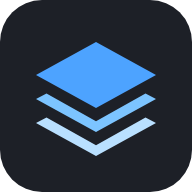
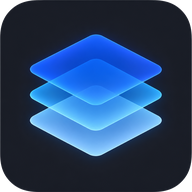
新增:插畫範例與新圖示

diff --git a/src/sample.ts b/src/sample.ts
@@ -2,66 +2,82 @@ import type { Layer, Psd } from 'ag-psd';
 import type { MessageKey } from './i18n/messages';
 import { context2d, createSurface, pixelsOf } from './model/surface';
 
-type Draw = (context: CanvasRenderingContext2D) => void;
+const sampleWidth = 1024;
+const sampleHeight = 768;
 
-const sampleWidth = 512;
-const sampleHeight = 512;
+interface Placement {
+  file: string;
+  name: MessageKey;
+  left: number;
+  top: number;
+}
 
-function pixelLayer(name: string, left: number, top: number, width: number, height: number, draw: Draw, extra: Partial<Layer> = {}): Layer {
+const placements: Record<'background' | 'easel' | 'character' | 'cat', Placement> = {
+  background: { file: 'background.webp', name: 'sample.background', left: 0, top: 0 },
+  easel: { file: 'easel.webp', name: 'sample.easel', left: 110, top: 330 },
+  character: { file: 'character.webp', name: 'sample.character', left: 380, top: 220 },
+  cat: { file: 'cat.webp', name: 'sample.cat', left: 700, top: 540 },
+};
+
+async function loadImage(file: string): Promise<HTMLImageElement> {
+  const image = new Image();
+  image.src = `${import.meta.env.BASE_URL}sample/${file}`;
+  await image.decode();
+  return image;
+}
+
+async function imageLayer(placement: Placement, name: (key: MessageKey) => string): Promise<Layer> {
+  const image = await loadImage(placement.file);
+  const surface = createSurface(image.naturalWidth, image.naturalHeight);
+  context2d(surface).drawImage(image, 0, 0);
+  return {
+    name: name(placement.name),
+    left: placement.left,
+    top: placement.top,
+    right: placement.left + surface.width,
+    bottom: placement.top + surface.height,
+    imageData: pixelsOf(surface),
+  };
+}
+
+function drawnLayer(name: string, left: number, top: number, width: number, height: number, draw: (context: CanvasRenderingContext2D) => void, extra: Partial<Layer>): Layer {
   const surface = createSurface(width, height);
-  const context = context2d(surface);
-  draw(context);
+  draw(context2d(surface));
   return { name, left, top, right: left + width, bottom: top + height, imageData: pixelsOf(surface), ...extra };
 }
 
-function ellipse(color: string, width: number, height: number): Draw {
-  return (context) => {
-    context.fillStyle = color;
+function shadows(context: CanvasRenderingContext2D) {
+  context.fillStyle = '#3d4a3a';
+  for (const [x, y, radiusX, radiusY] of [
+    [205, 40, 110, 22],
+    [430, 40, 120, 26],
+    [690, 40, 70, 16],
+  ]) {
     context.beginPath();
-    context.ellipse(width / 2, height / 2, width / 2, height / 2, 0, 0, Math.PI * 2);
+    context.ellipse(x, y, radiusX, radiusY, 0, 0, Math.PI * 2);
     context.fill();
-  };
+  }
 }
 
-function roundedRect(color: string, width: number, height: number, radius: number): Draw {
-  return (context) => {
-    context.fillStyle = color;
-    context.beginPath();
-    context.roundRect(0, 0, width, height, radius);
-    context.fill();
-  };
+function sketch(context: CanvasRenderingContext2D) {
+  context.strokeStyle = '#d0453a';
+  context.lineWidth = 3;
+  context.setLineDash([12, 8]);
+  context.strokeRect(6, 6, 348, 568);
 }
 
-export function samplePsd(name: (key: MessageKey) => string): Psd {
-  const background = pixelLayer(name('sample.background'), 0, 0, sampleWidth, sampleHeight, (context) => {
-    const gradient = context.createLinearGradient(0, 0, 0, sampleHeight);
-    gradient.addColorStop(0, '#dfe9f5');
-    gradient.addColorStop(1, '#f7efe3');
-    context.fillStyle = gradient;
-    context.fillRect(0, 0, sampleWidth, sampleHeight);
-  });
-  const shadow = pixelLayer(name('sample.shadow'), 156, 420, 200, 40, ellipse('#6b6f7a', 200, 40), { blendMode: 'multiply', opacity: 0.45 });
-  const body = pixelLayer(name('sample.body'), 196, 230, 120, 190, roundedRect('#3f7cc4', 120, 190, 36));
-  const armLeft = pixelLayer(name('sample.armLeft'), 150, 250, 44, 130, roundedRect('#f2c6a0', 44, 130, 22));
-  const armRight = pixelLayer(name('sample.armRight'), 318, 250, 44, 130, roundedRect('#f2c6a0', 44, 130, 22));
-  const head = pixelLayer(name('sample.head'), 186, 90, 140, 140, ellipse('#f2c6a0', 140, 140));
-  const sketch = pixelLayer(
-    name('sample.sketch'),
-    120,
-    60,
-    280,
-    400,
-    (context) => {
-      context.strokeStyle = '#d0453a';
-      context.lineWidth = 3;
-      context.strokeRect(10, 10, 260, 380);
-    },
-    { hidden: true },
-  );
-  const character: Layer = { name: name('sample.character'), opened: true, children: [armLeft, body, armRight, head] };
+export async function samplePsd(name: (key: MessageKey) => string): Promise<Psd> {
+  const [background, easel, character, cat] = await Promise.all([
+    imageLayer(placements.background, name),
+    imageLayer(placements.easel, name),
+    imageLayer(placements.character, name),
+    imageLayer(placements.cat, name),
+  ]);
+  const shadow = drawnLayer(name('sample.shadow'), 100, 680, 820, 80, shadows, { blendMode: 'multiply', opacity: 0.35 });
+  const guide = drawnLayer(name('sample.sketch'), 350, 180, 360, 580, sketch, { hidden: true });
   return {
     width: sampleWidth,
     height: sampleHeight,
-    children: [background, shadow, character, sketch],
+    children: [background, shadow, { name: name('sample.foreground'), opened: true, children: [easel, character, cat] }, guide],
   };
 }

diff --git a/src/ui/App.tsx b/src/ui/App.tsx
@@ -141,7 +141,11 @@ export function App() {
     if (editor.dirty && !(await ask(t('dialog.unsavedTitle'), t('dialog.unsavedBody'), t('dialog.continue')))) {
       return;
     }
-    loadDocument(documentFromPsd(samplePsd((key) => t(key)), t('sample.fileName')));
+    try {
+      loadDocument(documentFromPsd(await samplePsd((key) => t(key)), t('sample.fileName')));
+    } catch (error) {
+      setStatus({ tone: 'error', text: t('status.error', { message: error instanceof Error ? error.message : String(error) }) });
+    }
   }, [ask, editor.dirty, loadDocument, t]);
 
   const finalComposite = useCallback(() => (document ? compositor.render(document) : null), [compositor, document]);
@@ -382,7 +386,7 @@ export function App() {
     >
       <header className="toolbar">
         <div className="brand">
-          <img src="icon.svg" alt="" width={22} height={22} />
+          <img src="icon-192.png" alt="" width={22} height={22} />
           <span>layerdesk</span>
         </div>
         <div className="tool-group">
@@ -479,7 +483,7 @@ export function App() {
             </>
           ) : (
             <div className="empty-state">
-              <img src="icon.svg" alt="" width={72} height={72} />
+              <img src="icon-192.png" alt="" width={72} height={72} />
               <h1>layerdesk</h1>
               <p>{t('app.tagline')}</p>
               <div className="drop-target">

diff --git a/src/i18n/messages.ts b/src/i18n/messages.ts
@@ -183,13 +183,12 @@ const en = {
   'status.unsaved': 'Unsaved changes',
   'sample.fileName': 'sample.psd',
   'sample.background': 'background',
-  'sample.character': 'character',
-  'sample.body': 'body',
-  'sample.head': 'head',
-  'sample.armLeft': 'arm left',
-  'sample.armRight': 'arm right',
+  'sample.foreground': 'foreground',
+  'sample.easel': 'easel',
+  'sample.character': 'painter',
+  'sample.cat': 'cat',
   'sample.shadow': 'shadow',
-  'sample.sketch': 'sketch',
+  'sample.sketch': 'layout guide',
 };
 
 export type MessageKey = keyof typeof en;
@@ -379,13 +378,12 @@ const zhTW: Record<MessageKey, string> = {
   'status.unsaved': '尚未儲存',
   'sample.fileName': '範例.psd',
   'sample.background': '背景',
-  'sample.character': '角色',
-  'sample.body': '身體',
-  'sample.head': '頭',
-  'sample.armLeft': '左手',
-  'sample.armRight': '右手',
+  'sample.foreground': '前景',
+  'sample.easel': '畫架',
+  'sample.character': '小畫家',
+  'sample.cat': '貓',
   'sample.shadow': '陰影',
-  'sample.sketch': '草稿',
+  'sample.sketch': '構圖參考線',
 };
 
 export type Language = 'zh-TW' | 'en';

diff --git a/vite.config.ts b/vite.config.ts
@@ -32,7 +32,7 @@ export default defineConfig({
     VitePWA({
       registerType: 'autoUpdate',
       injectRegister: 'script',
-      includeAssets: ['icon.svg'],
+      includeAssets: ['favicon.png'],
       manifest: {
         name: 'layerdesk',
         short_name: 'layerdesk',
@@ -44,11 +44,10 @@ export default defineConfig({
         icons: [
           { src: 'icon-192.png', sizes: '192x192', type: 'image/png' },
           { src: 'icon-512.png', sizes: '512x512', type: 'image/png' },
-          { src: 'icon.svg', sizes: 'any', type: 'image/svg+xml' },
         ],
       },
       workbox: {
-        globPatterns: ['**/*.{js,css,html,svg,png,webmanifest}'],
+        globPatterns: ['**/*.{js,css,html,png,webp,webmanifest,md}'],
         maximumFileSizeToCacheInBytes: 8 * 1024 * 1024,
       },
     }),

diff --git a/index.html b/index.html
@@ -5,7 +5,8 @@
     <meta name="viewport" content="width=device-width, initial-scale=1.0" />
     <meta name="description" content="Offline layer editor for PSD files. Move, transform, hide and group layers in the browser, then save the PSD back." />
     <meta name="theme-color" content="#1d2027" />
-    <link rel="icon" type="image/svg+xml" href="icon.svg" />
+    <link rel="icon" type="image/png" href="favicon.png" />
+    <link rel="apple-touch-icon" href="icon-192.png" />
     <title>layerdesk</title>
   </head>
   <body>

diff --git a/e2e/editor.spec.ts b/e2e/editor.spec.ts
@@ -106,7 +106,7 @@ test('exports layers as a zip with a manifest', async ({ page }) => {
 test('opens the built-in sample and switches language', async ({ page }) => {
   await page.goto('/');
   await page.getByTestId('sample').click();
-  await expect(page.getByTestId('layer-row')).toHaveCount(8);
+  await expect(page.getByTestId('layer-row')).toHaveCount(7);
   await page.getByTestId('language').click();
   await expect(page.getByTestId('tab-layers')).toHaveText('圖層');
 });

diff --git a/src/styles.css b/src/styles.css
@@ -734,3 +734,8 @@ kbd {
     display: none;
   }
 }
+
+.compare .button {
+  white-space: normal;
+  text-align: left;
+}

diff --git a/README.md b/README.md
@@ -6,6 +6,8 @@ layerdesk is an offline-first layer editor for PSD files that runs entirely in t
 
 [繁體中文](#繁體中文) | [English](#english)
 
+![layerdesk editing the built-in sample](docs/screenshot.webp)
+
 **Try it: https://zzoraemon043.github.io/layerdesk/**
 
 > Status: first release. The design is in [docs/spec.md](docs/spec.md).
